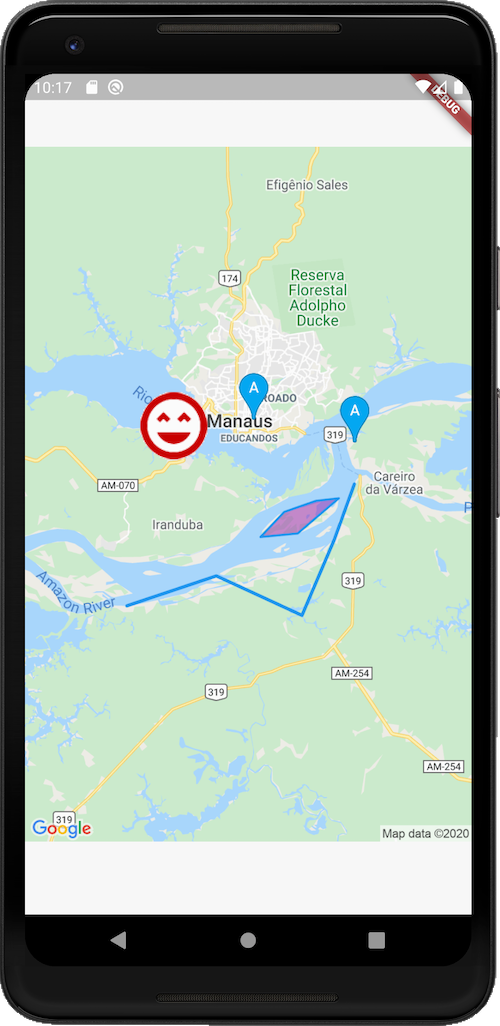
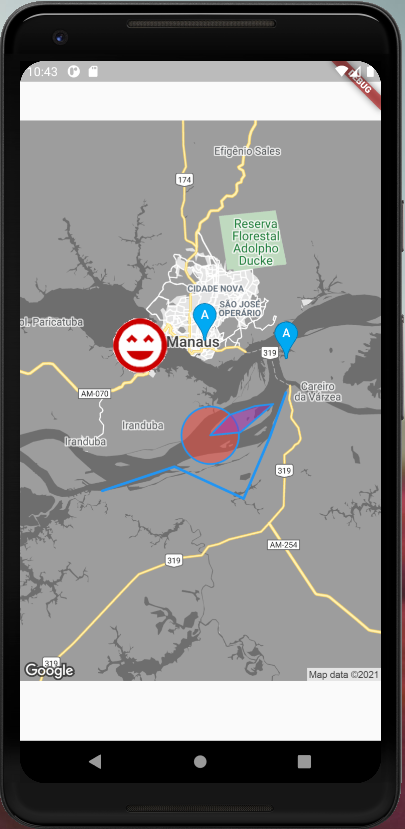
Bump package version

diff --git a/CHANGELOG.md b/CHANGELOG.md
@@ -1,3 +1,7 @@
+## 0.6.0
+* Added support for path circles.
+* Added additional check for max url size.
+* Documentation changes. 
 ## 0.5.0
 * Added support for null stafety.
 * `Path` and `Marker` will now throw errors when `toUrlString` is called and minimum required elements are not provided.
